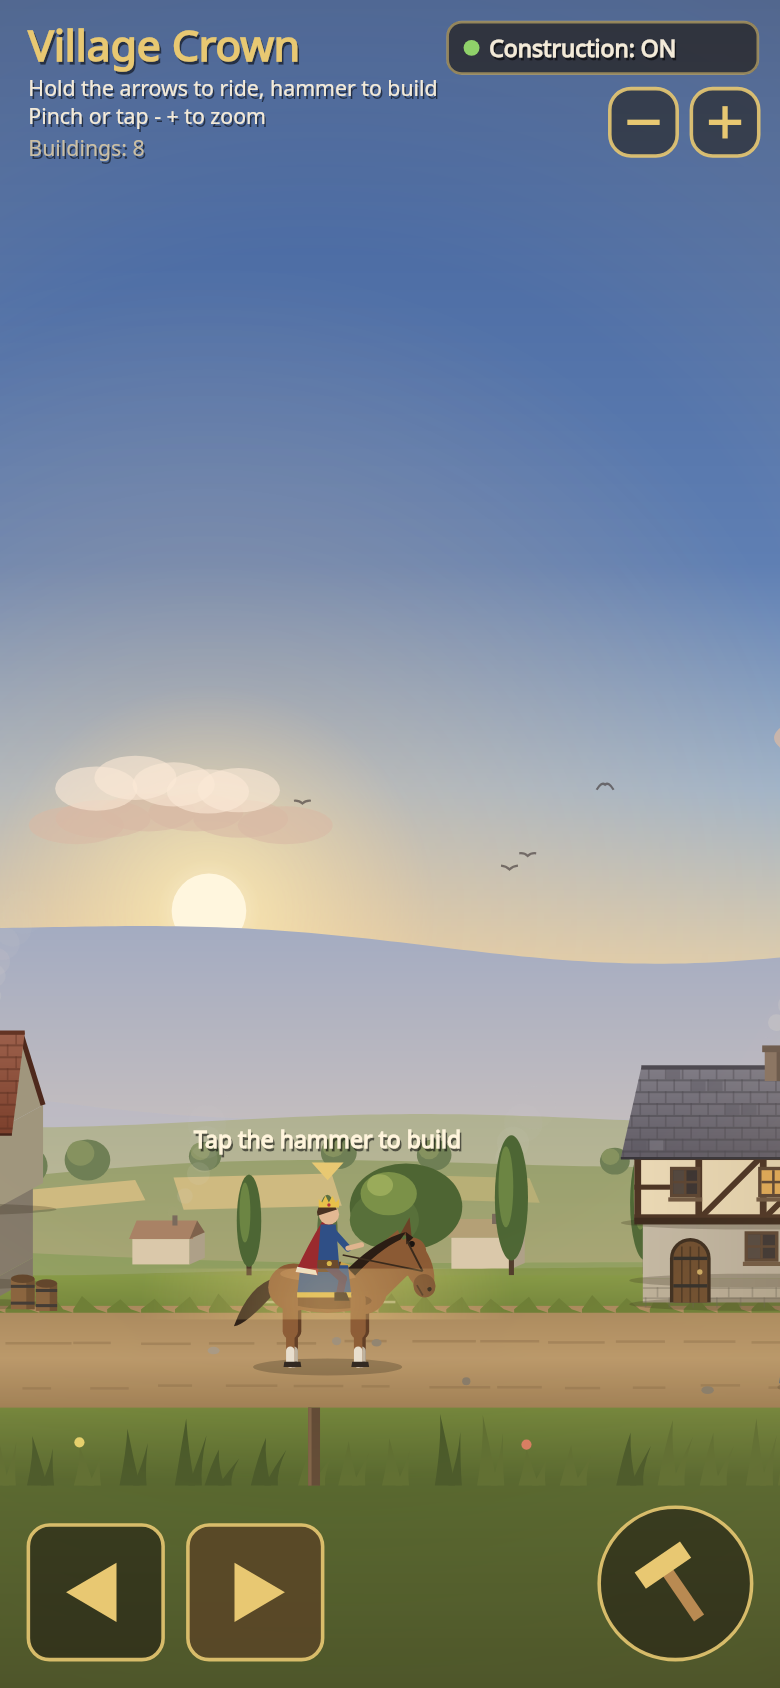
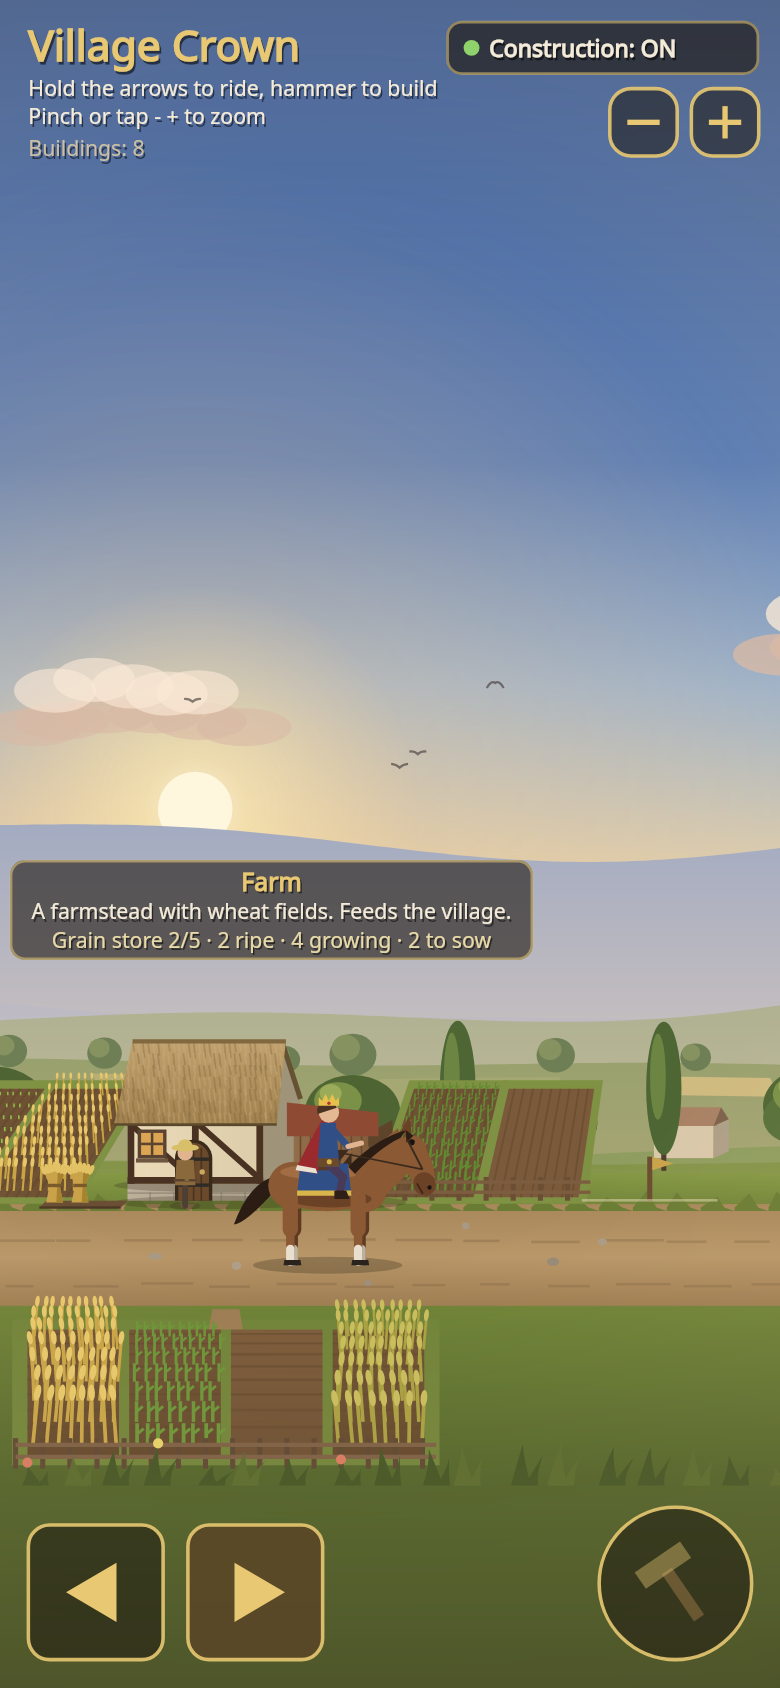
Keep building labels on screen on narrow phones

diff --git a/src/render/ui.ts b/src/render/ui.ts
@@ -331,16 +331,19 @@ export function drawPlotPrompt(ctx: Ctx, sx: number, base: number, time: number,
 }
 
 /** Name + purpose label over a finished building the rider is next to. */
-export function drawBuildingLabel(ctx: Ctx, b: Building, sx: number, y: number, k: number): void {
+export function drawBuildingLabel(ctx: Ctx, b: Building, sx: number, y: number, k: number, viewW: number): void {
   const def = BUILDINGS[b.type];
   const lines = [def.purpose];
   if (b.farm) {
     const n = (st: string) => b.farm!.plots.filter((p) => p.state === st).length;
     lines.push(`Grain store ${b.farm.storage}/${STORAGE_MAX} · ${n('ripe')} ripe · ${n('growing')} growing · ${n('fallow')} to sow`);
   }
+  ctx.font = `12px ${SERIF}`;
+  const w = Math.max(60, ...lines.map((l) => ctx.measureText(l).width)) + 24;
+  // keep the label on screen (it may be wider than a phone's view)
+  const half = (w / 2) * k + 6;
+  sx = half * 2 > viewW ? viewW / 2 : Math.max(half, Math.min(viewW - half, sx));
   around(ctx, sx, y, k, () => {
-    ctx.font = `12px ${SERIF}`;
-    const w = Math.max(60, ...lines.map((l) => ctx.measureText(l).width)) + 24;
     const h = 24 + lines.length * 16;
     panel(ctx, sx - w / 2, y - h - 4, w, h, 0.6);
     text(ctx, def.name, sx, y - h + 13, 14, GOLD, 'center', true);

diff --git a/src/render/scene.ts b/src/render/scene.ts
@@ -114,7 +114,7 @@ export function drawScene(ctx: Ctx, world: World, sv: SceneView): void {
     const sx = plot.x - camX;
     const b = getBuilding(world, plot.buildingId);
     if (!b) drawPlotPrompt(ctx, sx, BASE, world.time, sv.promptLabel, k);
-    else if (b.status === 'done') drawBuildingLabel(ctx, b, sx, BASE - BUILDINGS[b.type].height - 18, k);
+    else if (b.status === 'done') drawBuildingLabel(ctx, b, sx, BASE - BUILDINGS[b.type].height - 18, k, viewW);
   }
 }
 
